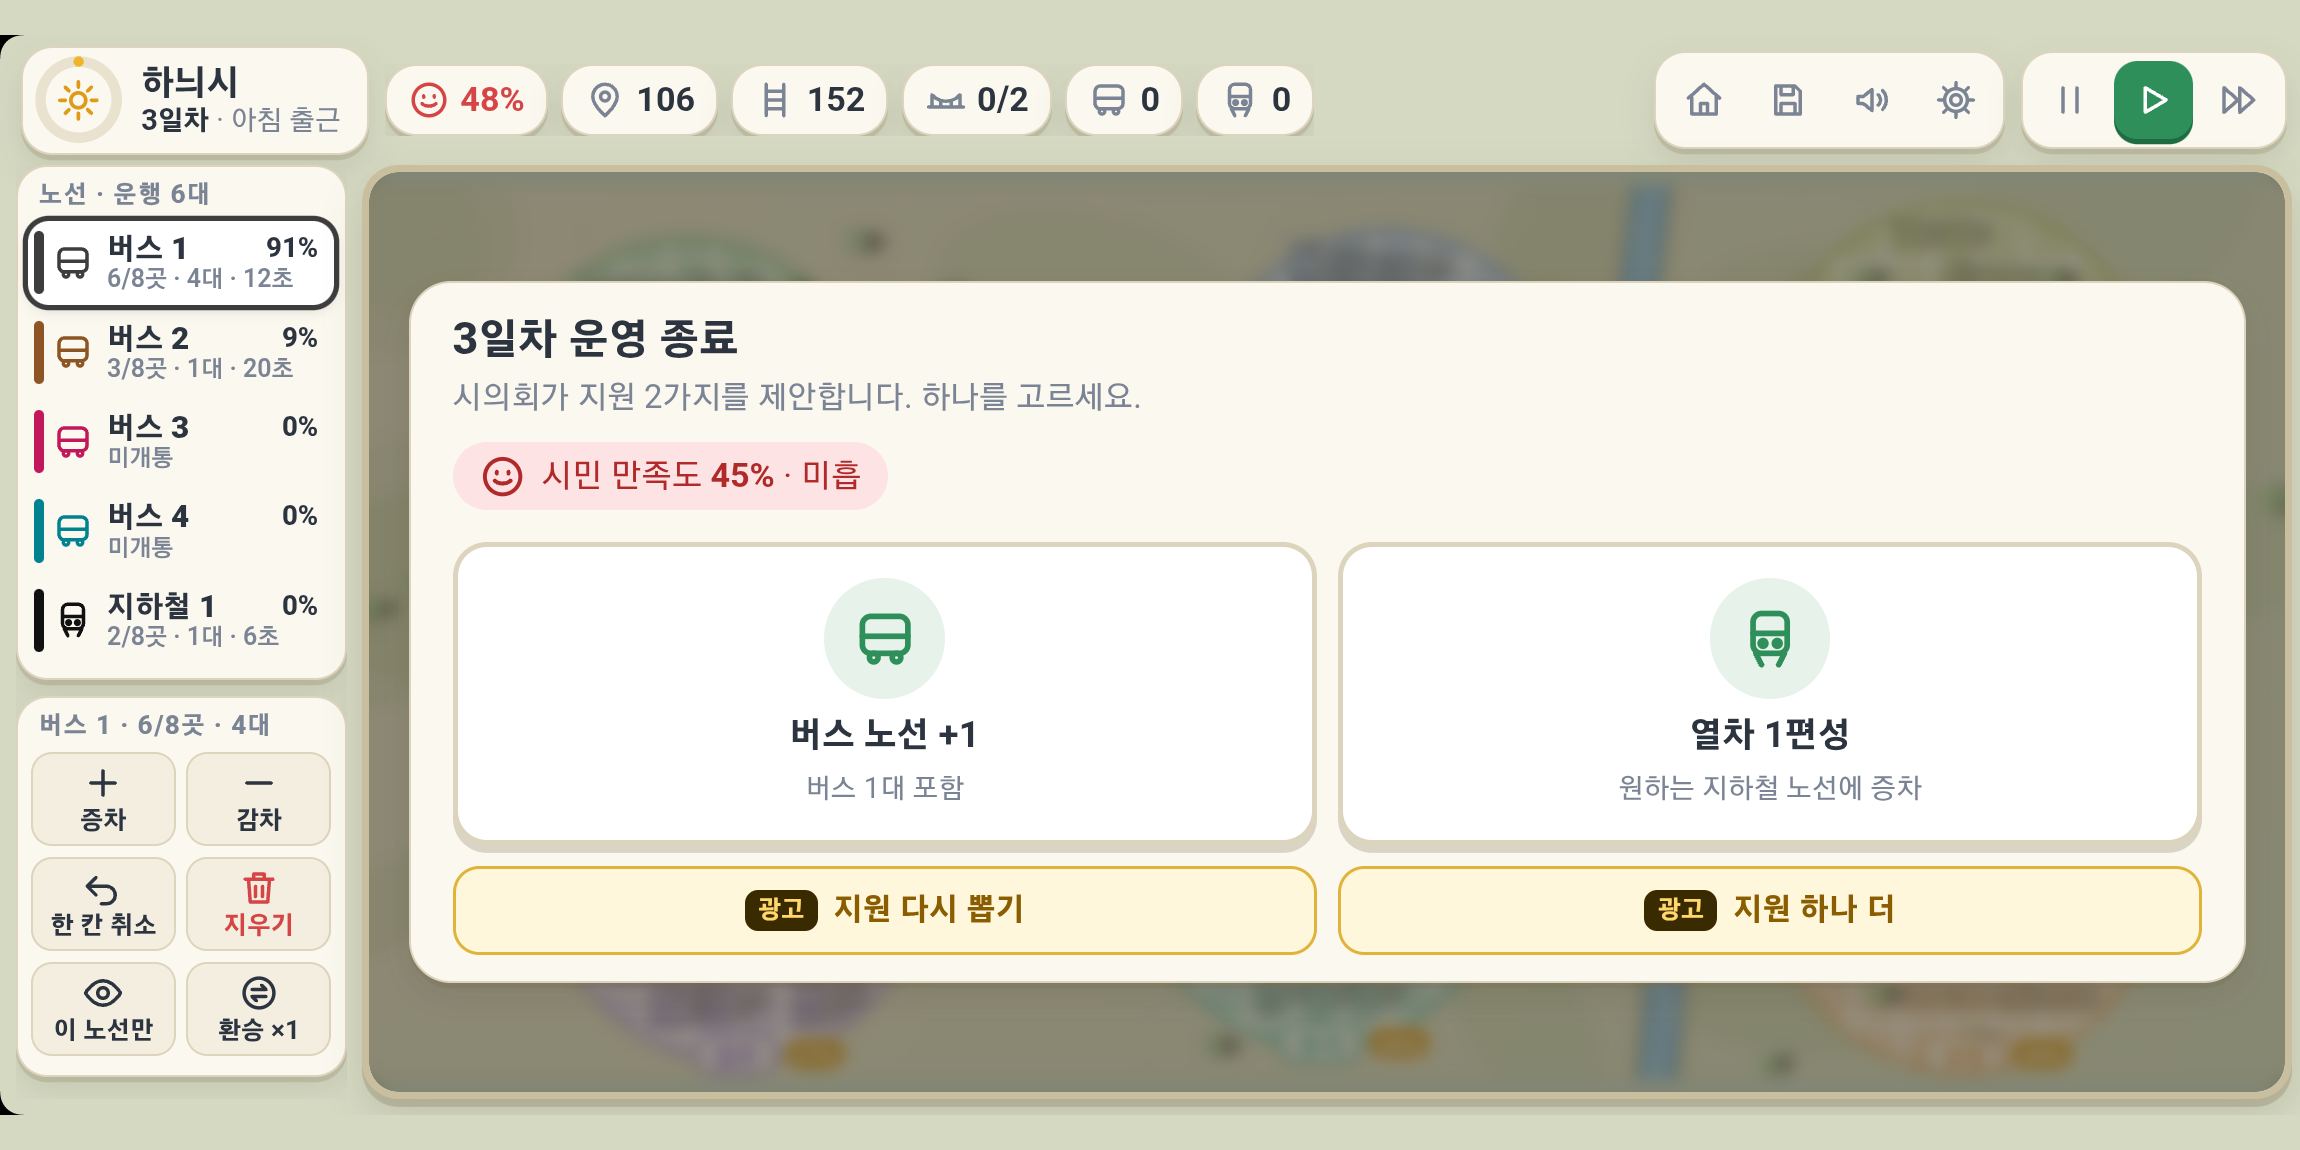
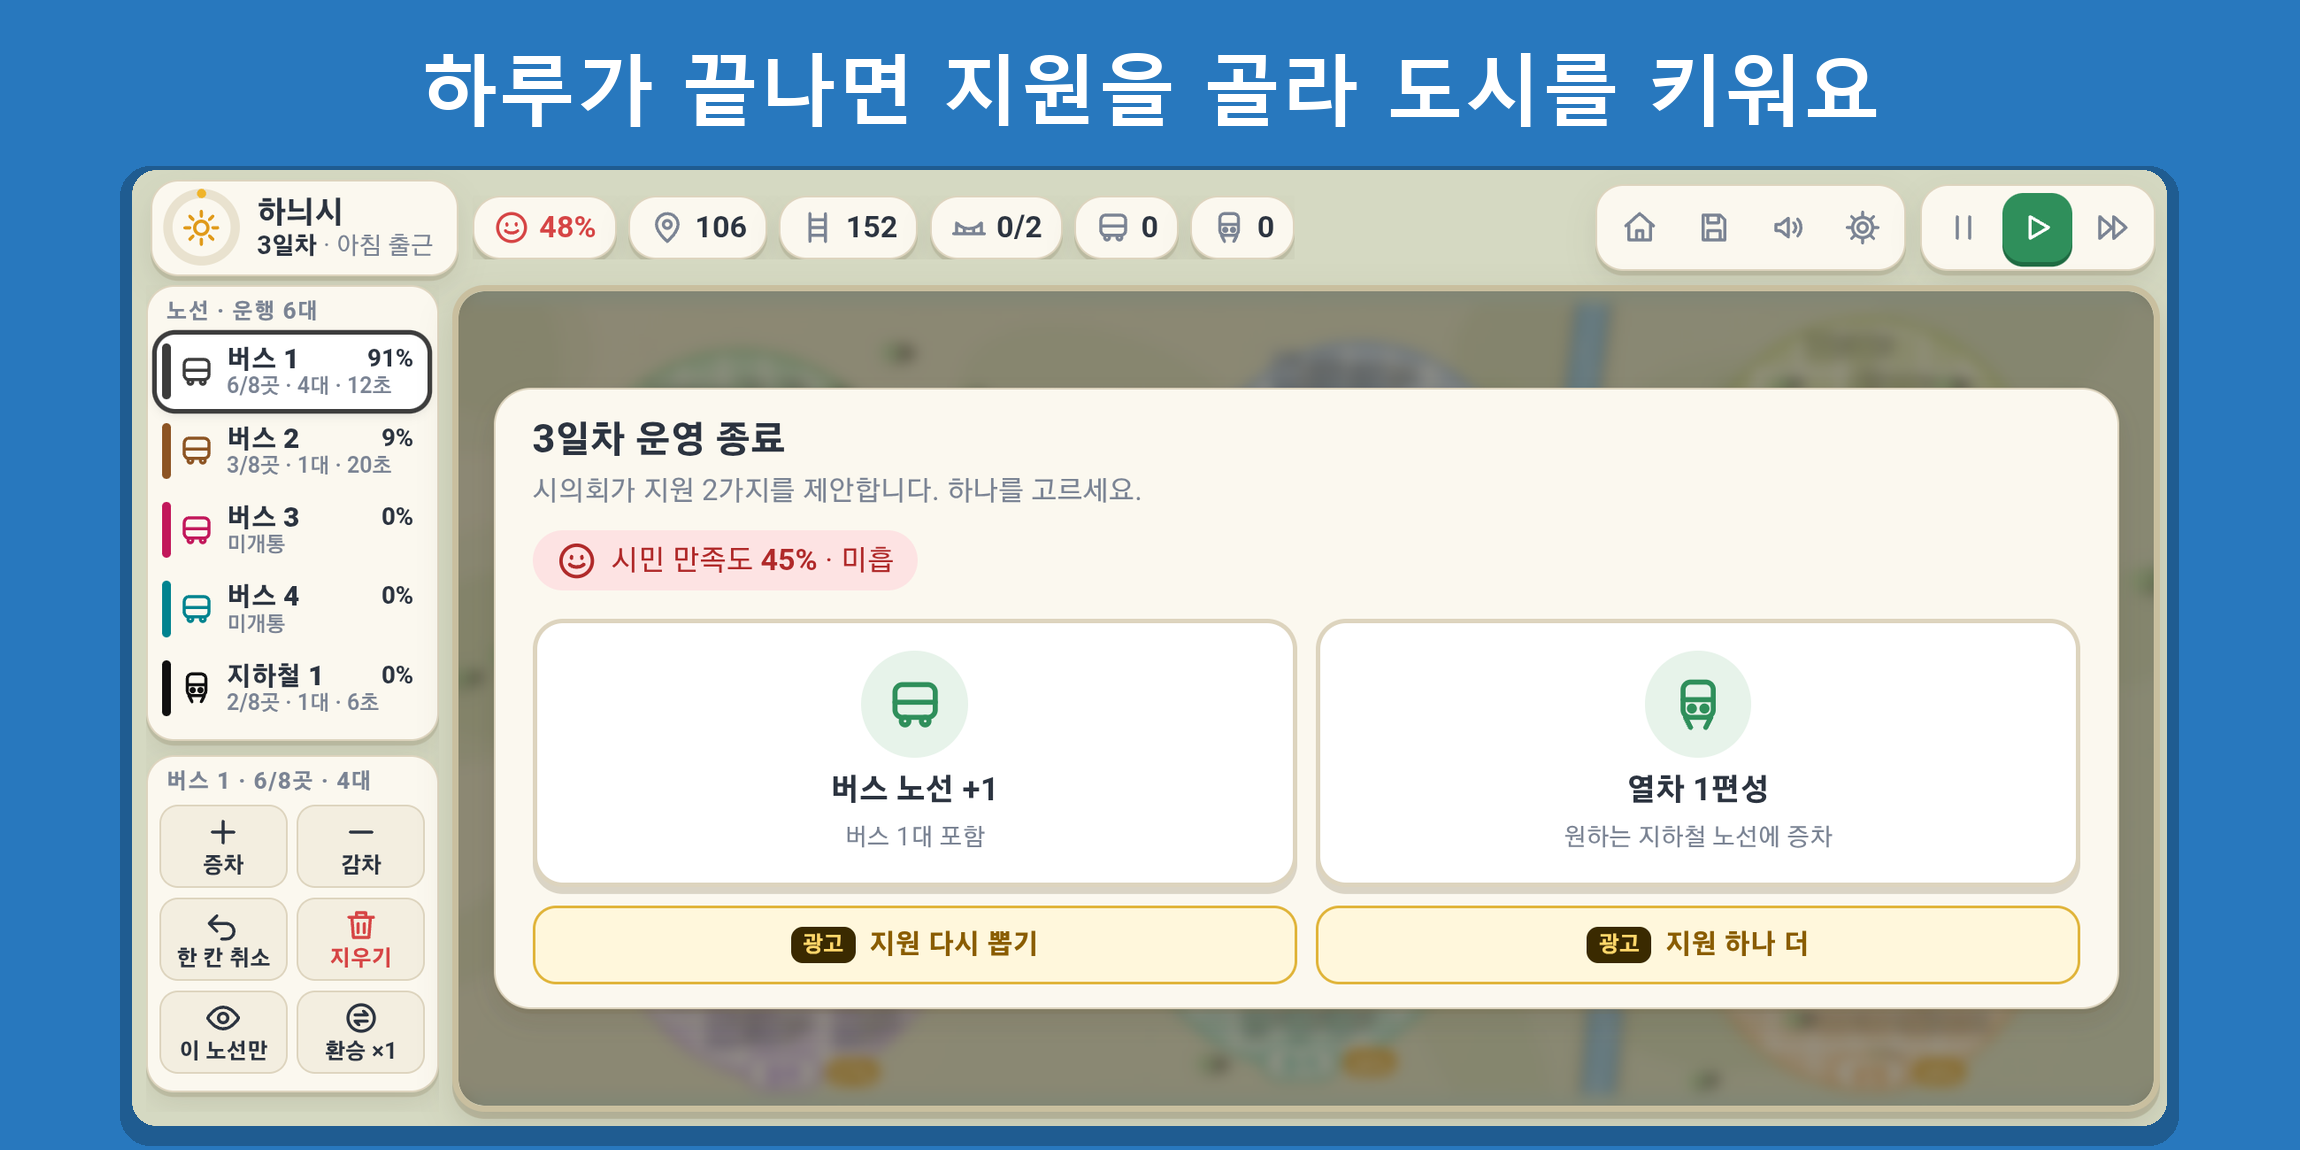
게임 이름을 '출근길 메트로'로 바꾸고 새 아이콘과 스토어 이미지 적용

diff --git a/privacy.html b/privacy.html
@@ -3,7 +3,7 @@
 <head>
 <meta charset="utf-8">
 <meta name="viewport" content="width=device-width, initial-scale=1">
-<title>노선 짜기 개인정보처리방침</title>
+<title>출근길 메트로 개인정보처리방침</title>
 <style>
   :root { --bg: #f4f2ea; --fg: #2b2d27; --sub: #5f6357; --line: #d9d6c8; --accent: #2e8b57; }
   @media (prefers-color-scheme: dark) { :root { --bg: #1d1f1b; --fg: #e8e6dc; --sub: #a9ab9f; --line: #3a3d35; --accent: #5cc08a; } }
@@ -20,10 +20,10 @@
 </head>
 <body>
 <main>
-<h1>노선 짜기 개인정보처리방침</h1>
+<h1>출근길 메트로 개인정보처리방침</h1>
 <div class="date">시행일: 2026년 11월 14일</div>
 
-<p>“노선 짜기”(이하 “게임”)는 mangorocket(이하 “개발자”)이 만든 대중교통 노선 퍼즐 게임입니다. 이 방침은 게임이 어떤 정보를 다루는지, 그 정보가 어디로 가는지 설명합니다.</p>
+<p>“출근길 메트로”(이하 “게임”)는 mangorocket(이하 “개발자”)이 만든 대중교통 노선 퍼즐 게임입니다. 이 방침은 게임이 어떤 정보를 다루는지, 그 정보가 어디로 가는지 설명합니다.</p>
 
 <h2>1. 개발자가 직접 모으는 정보</h2>
 <p>개발자는 회원 가입을 받지 않고, 이름·이메일·전화번호 같은 개인정보를 모으지 않습니다. 개발자가 운영하는 서버로 보내는 정보도 없습니다.</p>
@@ -71,7 +71,7 @@
 
 <section class="en" lang="en">
 <h2>Privacy Policy (English summary)</h2>
-<p>“노선 짜기” (Transit Routes) is a puzzle game by mangorocket. The developer does not collect personal information and runs no servers. Game progress and settings are stored only on your device. The game shows ads through Google AdMob, which may collect the advertising ID, IP address, device information and ad interaction data as described in Google’s Privacy Policy. Users in regions that require consent are asked on first launch and can change their choice anytime in Settings → “광고 개인정보 설정”. Purchases are processed by Google Play. The game is not directed to children under 13. Contact: GitHub issues page linked above or the developer contact on Google Play.</p>
+<p>“출근길 메트로” (Commute Metro) is a puzzle game by mangorocket. The developer does not collect personal information and runs no servers. Game progress and settings are stored only on your device. The game shows ads through Google AdMob, which may collect the advertising ID, IP address, device information and ad interaction data as described in Google’s Privacy Policy. Users in regions that require consent are asked on first launch and can change their choice anytime in Settings → “광고 개인정보 설정”. Purchases are processed by Google Play. The game is not directed to children under 13. Contact: GitHub issues page linked above or the developer contact on Google Play.</p>
 </section>
 </main>
 </body>

diff --git a/index.html b/index.html
@@ -3,7 +3,7 @@
 <head>
 <meta charset="utf-8">
 <meta name="viewport" content="width=device-width, initial-scale=1, maximum-scale=1, user-scalable=no">
-<title>노선 짜기</title>
+<title>출근길 메트로</title>
 <style>
 :root { --paper: #fbf8ef; --paper2: #f3eee0; --ink: #2c3440; --mute: #7b8494; --edge: #ddd4be;
   --accent: #2f8f5b; --accent-d: #1f6b42; --blue: #2b6cb0; --blue-d: #1e4f85; --warn: #d64545; }
@@ -202,7 +202,7 @@ details summary { cursor: pointer; font-size: 12px; color: var(--mute); font-wei
     <div id="coach" class="coach hide"><div class="cstep" id="cStep"></div><div class="ctext" id="cText"></div>
       <div class="cbtns"><button id="cSkip">건너뛰기</button><button id="cNext" class="go" style="display:none"></button></div></div>
     <div id="start" class="overlay"><div class="panel card" style="max-width:660px">
-      <h2>노선 짜기</h2>
+      <h2>출근길 메트로</h2>
       <div class="sub">도시를 골라 교통국장으로 부임하세요. 8일을 버티면 완주이고 다음 도시가 열립니다.</div>
       <div id="cityList" class="cities"></div>
       <div id="cityInfo" class="cityinfo"></div>

diff --git a/store/출시-안내.md b/store/출시-안내.md
@@ -1,4 +1,4 @@
-# 노선 짜기 — 구글 플레이 출시 안내
+# 출근길 메트로 — 구글 플레이 출시 안내
 
 ## 0. 먼저 꼭 할 일: 서명 키 백업
 
@@ -32,7 +32,7 @@
 
 | 항목 | 내용 |
 |---|---|
-| 앱 이름 | 노선 짜기 |
+| 앱 이름 | 출근길 메트로 |
 | 기본 언어 | 한국어 |
 | 앱/게임 | 게임 |
 | 카테고리 | 퍼즐. 시뮬레이션도 가능 |
